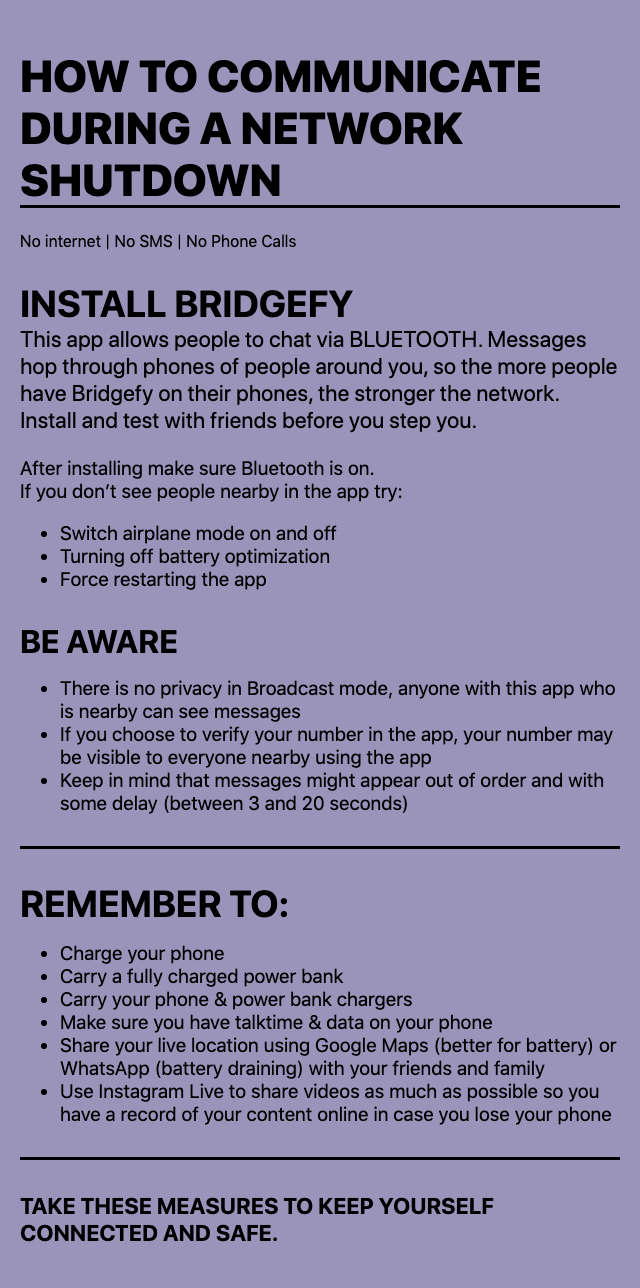
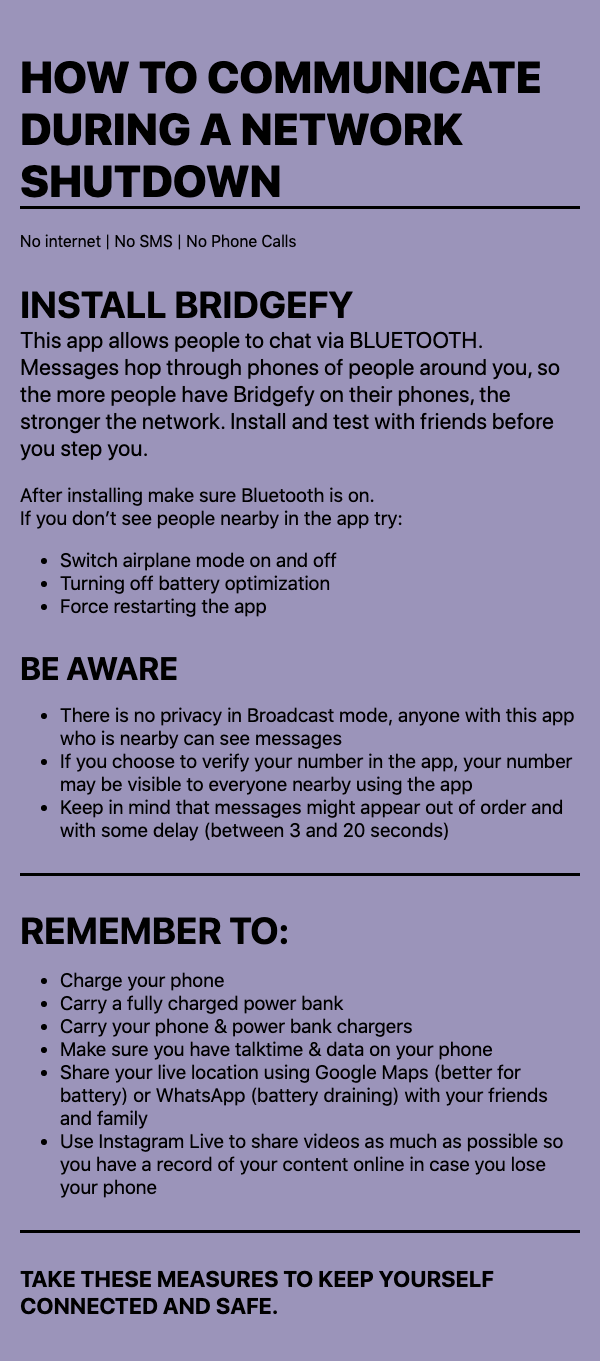
refactor: move the languages into a partial out of layout

Changed region(s): [[0.03, 0.0311, 0.96, 0.9627]]

diff --git a/poster-maker/gimmeposters.js b/poster-maker/gimmeposters.js
@@ -4,7 +4,7 @@ const puppeteer = require('puppeteer');
   const browser = await puppeteer.launch();
   const page = await browser.newPage();
   await page.goto('http://localhost:4567/');
-  const code = await page.$('.wrapper');
+  const code = await page.$('main');
   await code.screenshot({path: '../source/images/poster-en.png'});
   await browser.close();
 })();
@@ -13,7 +13,7 @@ const puppeteer = require('puppeteer');
   const browser = await puppeteer.launch();
   const page = await browser.newPage();
   await page.goto('http://localhost:4567/hi/');
-  const code = await page.$('.wrapper');
+  const code = await page.$('main');
   await code.screenshot({path: '../source/images/poster-hi.png'});
   await browser.close();
 })();
@@ -22,7 +22,7 @@ const puppeteer = require('puppeteer');
   const browser = await puppeteer.launch();
   const page = await browser.newPage();
   await page.goto('http://localhost:4567/kn/');
-  const code = await page.$('.wrapper');
+  const code = await page.$('main');
   await code.screenshot({path: '../source/images/poster-kn.png'});
   await browser.close();
 })();

diff --git a/source/stylesheets/site.css.scss b/source/stylesheets/site.css.scss
@@ -21,7 +21,11 @@ a {
   max-width: 600px;
   margin: 0 auto;
   text-align: left;
-  padding: 20px;
+}
+
+main {
+  padding : 20px;
+  margin: -20px;
 }
 
 h1 {
